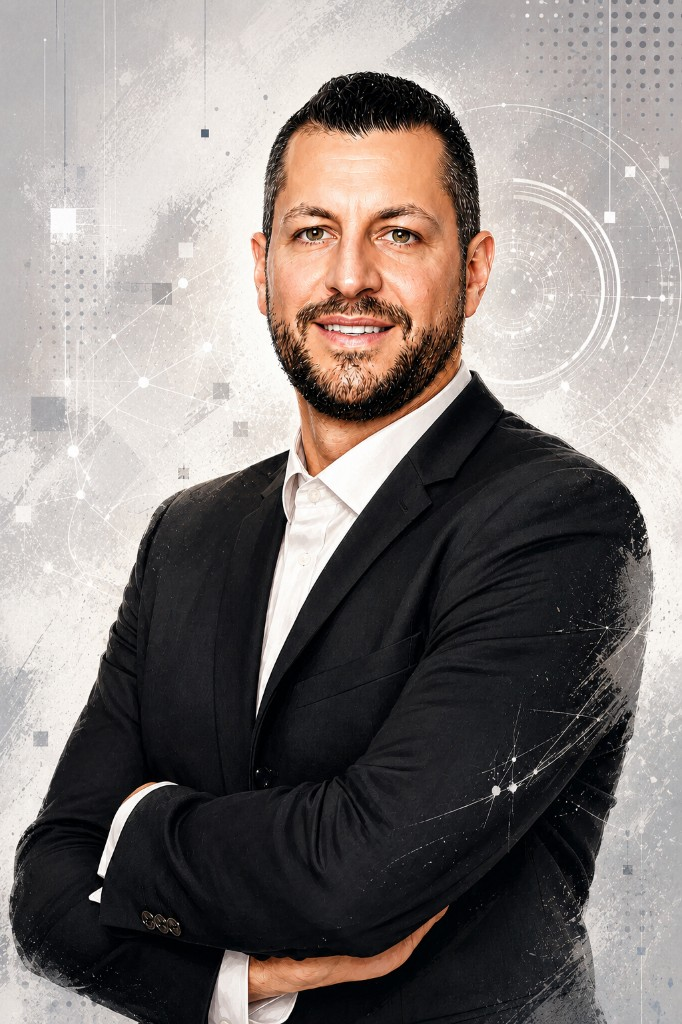
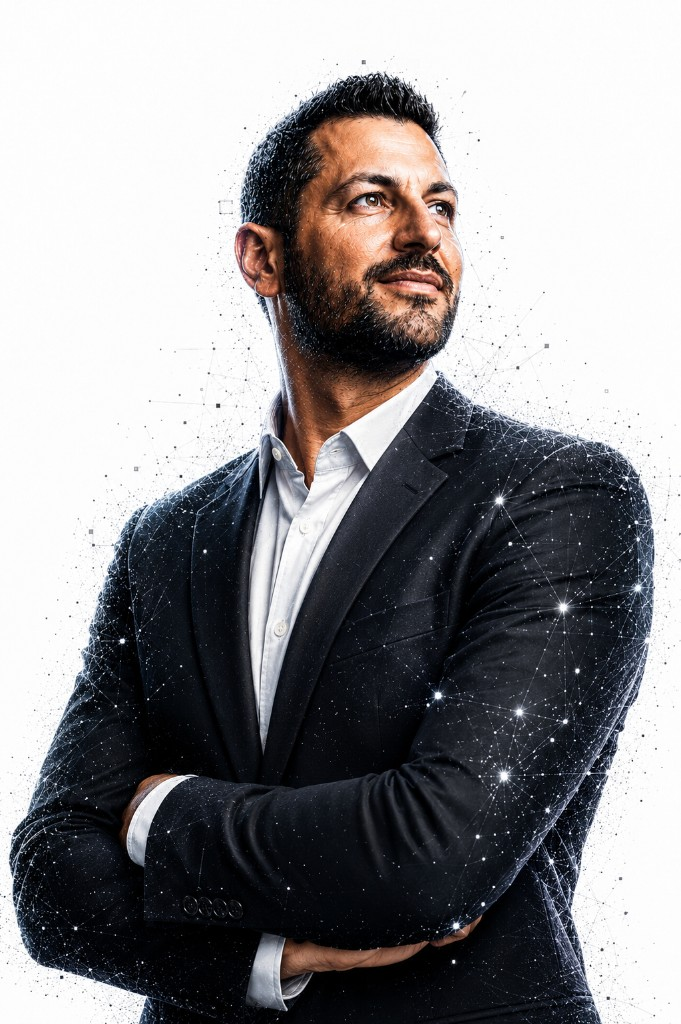
Use professional portrait photo on home and contact instead of world orb.
Replace PROFESSIONAL profile assets and fix v4 boot so vertex home/contact show the portrait, not the sphere.

diff --git a/Portfolio-App/app/assets/welten-multiversum-parallax-v4-boot.js b/Portfolio-App/app/assets/welten-multiversum-parallax-v4-boot.js
@@ -4,7 +4,7 @@
 (function () {
   "use strict";
 
-  var V = "?v=20260629mv-v4live";
+  var V = "?v=20260629mv-prof-portrait";
   var ORBS = {
     multiversum: "assets/multiversum-parallax-v4/orbs/Multiversum.png" + V,
     nexora: "assets/multiversum-parallax-v4/orbs/Nexora.png" + V,
@@ -40,12 +40,22 @@
     if (tag && /Drei|drei|3/.test(tag.textContent)) tag.textContent = "Vier Welten.";
   }
 
+  var PROFESSIONAL_PORTRAIT =
+    "assets/images/4welten-preview/professional/" +
+    encodeURIComponent("PROFESSIONAL PROFILBILD für HOME und Kontakt.png") +
+    V;
+
   function patchProfessionalPortraits() {
-    var src = ORBS.professional;
-    document.querySelectorAll('.home-portrait-card img, #contactPhoto, .contact-photo, #heroPhoto, img[src*="PROFESSIONAL PROFILBILD"]').forEach(function (img) {
-      img.src = src;
-      img.removeAttribute("srcset");
-    });
+    document
+      .querySelectorAll(
+        '.home-portrait-card img, #contactPhoto, .contact-photo, #heroPhoto, img[src*="PROFESSIONAL PROFILBILD"], img[src*="Professional_new"], img[src*="multiversum-parallax-v4/orbs/Professional"]'
+      )
+      .forEach(function (img) {
+        if (document.body.getAttribute("data-world") !== "vertex") return;
+        img.src = PROFESSIONAL_PORTRAIT;
+        img.removeAttribute("srcset");
+        img.alt = "Alex Lamberti Professional Portrait";
+      });
   }
 
   function patchSideNav() {

diff --git a/assets/welten-multiversum-parallax-v4-boot.js b/assets/welten-multiversum-parallax-v4-boot.js
@@ -4,7 +4,7 @@
 (function () {
   "use strict";
 
-  var V = "?v=20260629mv-v4live";
+  var V = "?v=20260629mv-prof-portrait";
   var ORBS = {
     multiversum: "assets/multiversum-parallax-v4/orbs/Multiversum.png" + V,
     nexora: "assets/multiversum-parallax-v4/orbs/Nexora.png" + V,
@@ -40,12 +40,22 @@
     if (tag && /Drei|drei|3/.test(tag.textContent)) tag.textContent = "Vier Welten.";
   }
 
+  var PROFESSIONAL_PORTRAIT =
+    "assets/images/4welten-preview/professional/" +
+    encodeURIComponent("PROFESSIONAL PROFILBILD für HOME und Kontakt.png") +
+    V;
+
   function patchProfessionalPortraits() {
-    var src = ORBS.professional;
-    document.querySelectorAll('.home-portrait-card img, #contactPhoto, .contact-photo, #heroPhoto, img[src*="PROFESSIONAL PROFILBILD"]').forEach(function (img) {
-      img.src = src;
-      img.removeAttribute("srcset");
-    });
+    document
+      .querySelectorAll(
+        '.home-portrait-card img, #contactPhoto, .contact-photo, #heroPhoto, img[src*="PROFESSIONAL PROFILBILD"], img[src*="Professional_new"], img[src*="multiversum-parallax-v4/orbs/Professional"]'
+      )
+      .forEach(function (img) {
+        if (document.body.getAttribute("data-world") !== "vertex") return;
+        img.src = PROFESSIONAL_PORTRAIT;
+        img.removeAttribute("srcset");
+        img.alt = "Alex Lamberti Professional Portrait";
+      });
   }
 
   function patchSideNav() {

diff --git a/MULTIVERSUM.html b/MULTIVERSUM.html
@@ -5183,8 +5183,8 @@ body[data-world="nexora"] button[aria-label*="Previous"] {
 <script src="assets/welten-skills-charts.js?v=20260608d" defer></script>
 </head>
 <body data-world="general" class="is-home mv-preview-lite">
-<script src="assets/portfolio-images.js?v=20260626-prof-neu"></script>
-<script src="assets/welten-preview-images.js?v=20260626-prof-neu"></script>
+<script src="assets/portfolio-images.js?v=20260629-prof-portrait"></script>
+<script src="assets/welten-preview-images.js?v=20260629-prof-portrait"></script>
 
 <!-- WP: Hintergrund-Ebenen optional weglassen oder als Section-Hintergrund + HTML für Canvas -->
   <div class="bg-root" aria-hidden="true"></div>
@@ -8636,6 +8636,6 @@ body[data-world="nexora"] .faq-panel-inner {
 <script src="assets/welten-multiversum-parallax-hero-v4.js?v=20260629mv-v4live" defer></script>
 <script src="assets/welten-multiversum-world.js?v=20260629mv-v4live" defer></script>
 <script src="assets/welten-multiversum-parallax-v4-boot.js?v=20260629mv-v4live" defer></script>
-<script src="assets/welten-portraits-apply.js?v=20260626-prof-neu" defer></script>
+<script src="assets/welten-portraits-apply.js?v=20260629-prof-portrait" defer></script>
 </body>
 </html>

diff --git a/Portfolio-App/app/MULTIVERSUM.html b/Portfolio-App/app/MULTIVERSUM.html
@@ -5183,8 +5183,8 @@ body[data-world="nexora"] button[aria-label*="Previous"] {
 <script src="assets/welten-skills-charts.js?v=20260608d" defer></script>
 </head>
 <body data-world="general" class="is-home mv-preview-lite">
-<script src="assets/portfolio-images.js?v=20260626-prof-neu"></script>
-<script src="assets/welten-preview-images.js?v=20260626-prof-neu"></script>
+<script src="assets/portfolio-images.js?v=20260629-prof-portrait"></script>
+<script src="assets/welten-preview-images.js?v=20260629-prof-portrait"></script>
 
 <!-- WP: Hintergrund-Ebenen optional weglassen oder als Section-Hintergrund + HTML für Canvas -->
   <div class="bg-root" aria-hidden="true"></div>
@@ -8636,6 +8636,6 @@ body[data-world="nexora"] .faq-panel-inner {
 <script src="assets/welten-multiversum-parallax-hero-v4.js?v=20260629mv-v4live" defer></script>
 <script src="assets/welten-multiversum-world.js?v=20260629mv-v4live" defer></script>
 <script src="assets/welten-multiversum-parallax-v4-boot.js?v=20260629mv-v4live" defer></script>
-<script src="assets/welten-portraits-apply.js?v=20260626-prof-neu" defer></script>
+<script src="assets/welten-portraits-apply.js?v=20260629-prof-portrait" defer></script>
 </body>
 </html>

diff --git a/PROFESSIONAL.html b/PROFESSIONAL.html
@@ -3759,8 +3759,8 @@ body[data-world="vertex"] .home-portrait-card,
 <script src="assets/welten-skills-charts.js?v=20260608d" defer></script>
 </head>
 <body data-world="vertex">
-<script src="assets/portfolio-images.js?v=20260626-prof-neu"></script>
-<script src="assets/welten-preview-images.js?v=20260626-prof-neu"></script>
+<script src="assets/portfolio-images.js?v=20260629-prof-portrait"></script>
+<script src="assets/welten-preview-images.js?v=20260629-prof-portrait"></script>
 
 <!-- WP: Hintergrund-Ebenen optional weglassen oder als Section-Hintergrund + HTML für Canvas -->
   <div class="bg-root" aria-hidden="true"></div>
@@ -6097,6 +6097,6 @@ body[data-world="nexora"] .faq-panel-inner {
 <link rel="stylesheet" href="assets/welten-preview-portraits.css?v=20260626portrait" />
 <script src="assets/welten-preview-i18n.js?v=20260614mv6" defer></script>
 <script src="assets/welten-preview-i18n-bridge.js?v=20260614form" defer></script>
-<script src="assets/welten-portraits-apply.js?v=20260626-prof-neu" defer></script>
+<script src="assets/welten-portraits-apply.js?v=20260629-prof-portrait" defer></script>
 </body>
 </html>

diff --git a/Portfolio-App/app/PROFESSIONAL.html b/Portfolio-App/app/PROFESSIONAL.html
@@ -3759,8 +3759,8 @@ body[data-world="vertex"] .home-portrait-card,
 <script src="assets/welten-skills-charts.js?v=20260608d" defer></script>
 </head>
 <body data-world="vertex">
-<script src="assets/portfolio-images.js?v=20260626-prof-neu"></script>
-<script src="assets/welten-preview-images.js?v=20260626-prof-neu"></script>
+<script src="assets/portfolio-images.js?v=20260629-prof-portrait"></script>
+<script src="assets/welten-preview-images.js?v=20260629-prof-portrait"></script>
 
 <!-- WP: Hintergrund-Ebenen optional weglassen oder als Section-Hintergrund + HTML für Canvas -->
   <div class="bg-root" aria-hidden="true"></div>
@@ -6097,6 +6097,6 @@ body[data-world="nexora"] .faq-panel-inner {
 <link rel="stylesheet" href="assets/welten-preview-portraits.css?v=20260626portrait" />
 <script src="assets/welten-preview-i18n.js?v=20260614mv6" defer></script>
 <script src="assets/welten-preview-i18n-bridge.js?v=20260614form" defer></script>
-<script src="assets/welten-portraits-apply.js?v=20260626-prof-neu" defer></script>
+<script src="assets/welten-portraits-apply.js?v=20260629-prof-portrait" defer></script>
 </body>
 </html>

diff --git a/Portfolio-App/app/assets/portfolio-images.js b/Portfolio-App/app/assets/portfolio-images.js
@@ -4,7 +4,7 @@
 (function () {
   "use strict";
 
-  var PORTRAIT_V = "20260626-prof-neu";
+  var PORTRAIT_V = "20260629-prof-portrait";
   var BASE = "assets/images/4welten-preview/";
 
   var PORTRAIT_FILES = {

diff --git a/assets/portfolio-images.js b/assets/portfolio-images.js
@@ -4,7 +4,7 @@
 (function () {
   "use strict";
 
-  var PORTRAIT_V = "20260626-prof-neu";
+  var PORTRAIT_V = "20260629-prof-portrait";
   var BASE = "assets/images/4welten-preview/";
 
   var PORTRAIT_FILES = {

diff --git a/Portfolio-App/app/assets/welten-portraits-apply.js b/Portfolio-App/app/assets/welten-portraits-apply.js
@@ -4,7 +4,7 @@
 (function () {
   "use strict";
 
-  var V = "20260626-prof-neu";
+  var V = "20260629-prof-portrait";
 
   function worldKey() {
     return document.body.getAttribute("data-world") || "nexora";

diff --git a/assets/welten-portraits-apply.js b/assets/welten-portraits-apply.js
@@ -4,7 +4,7 @@
 (function () {
   "use strict";
 
-  var V = "20260626-prof-neu";
+  var V = "20260629-prof-portrait";
 
   function worldKey() {
     return document.body.getAttribute("data-world") || "nexora";
